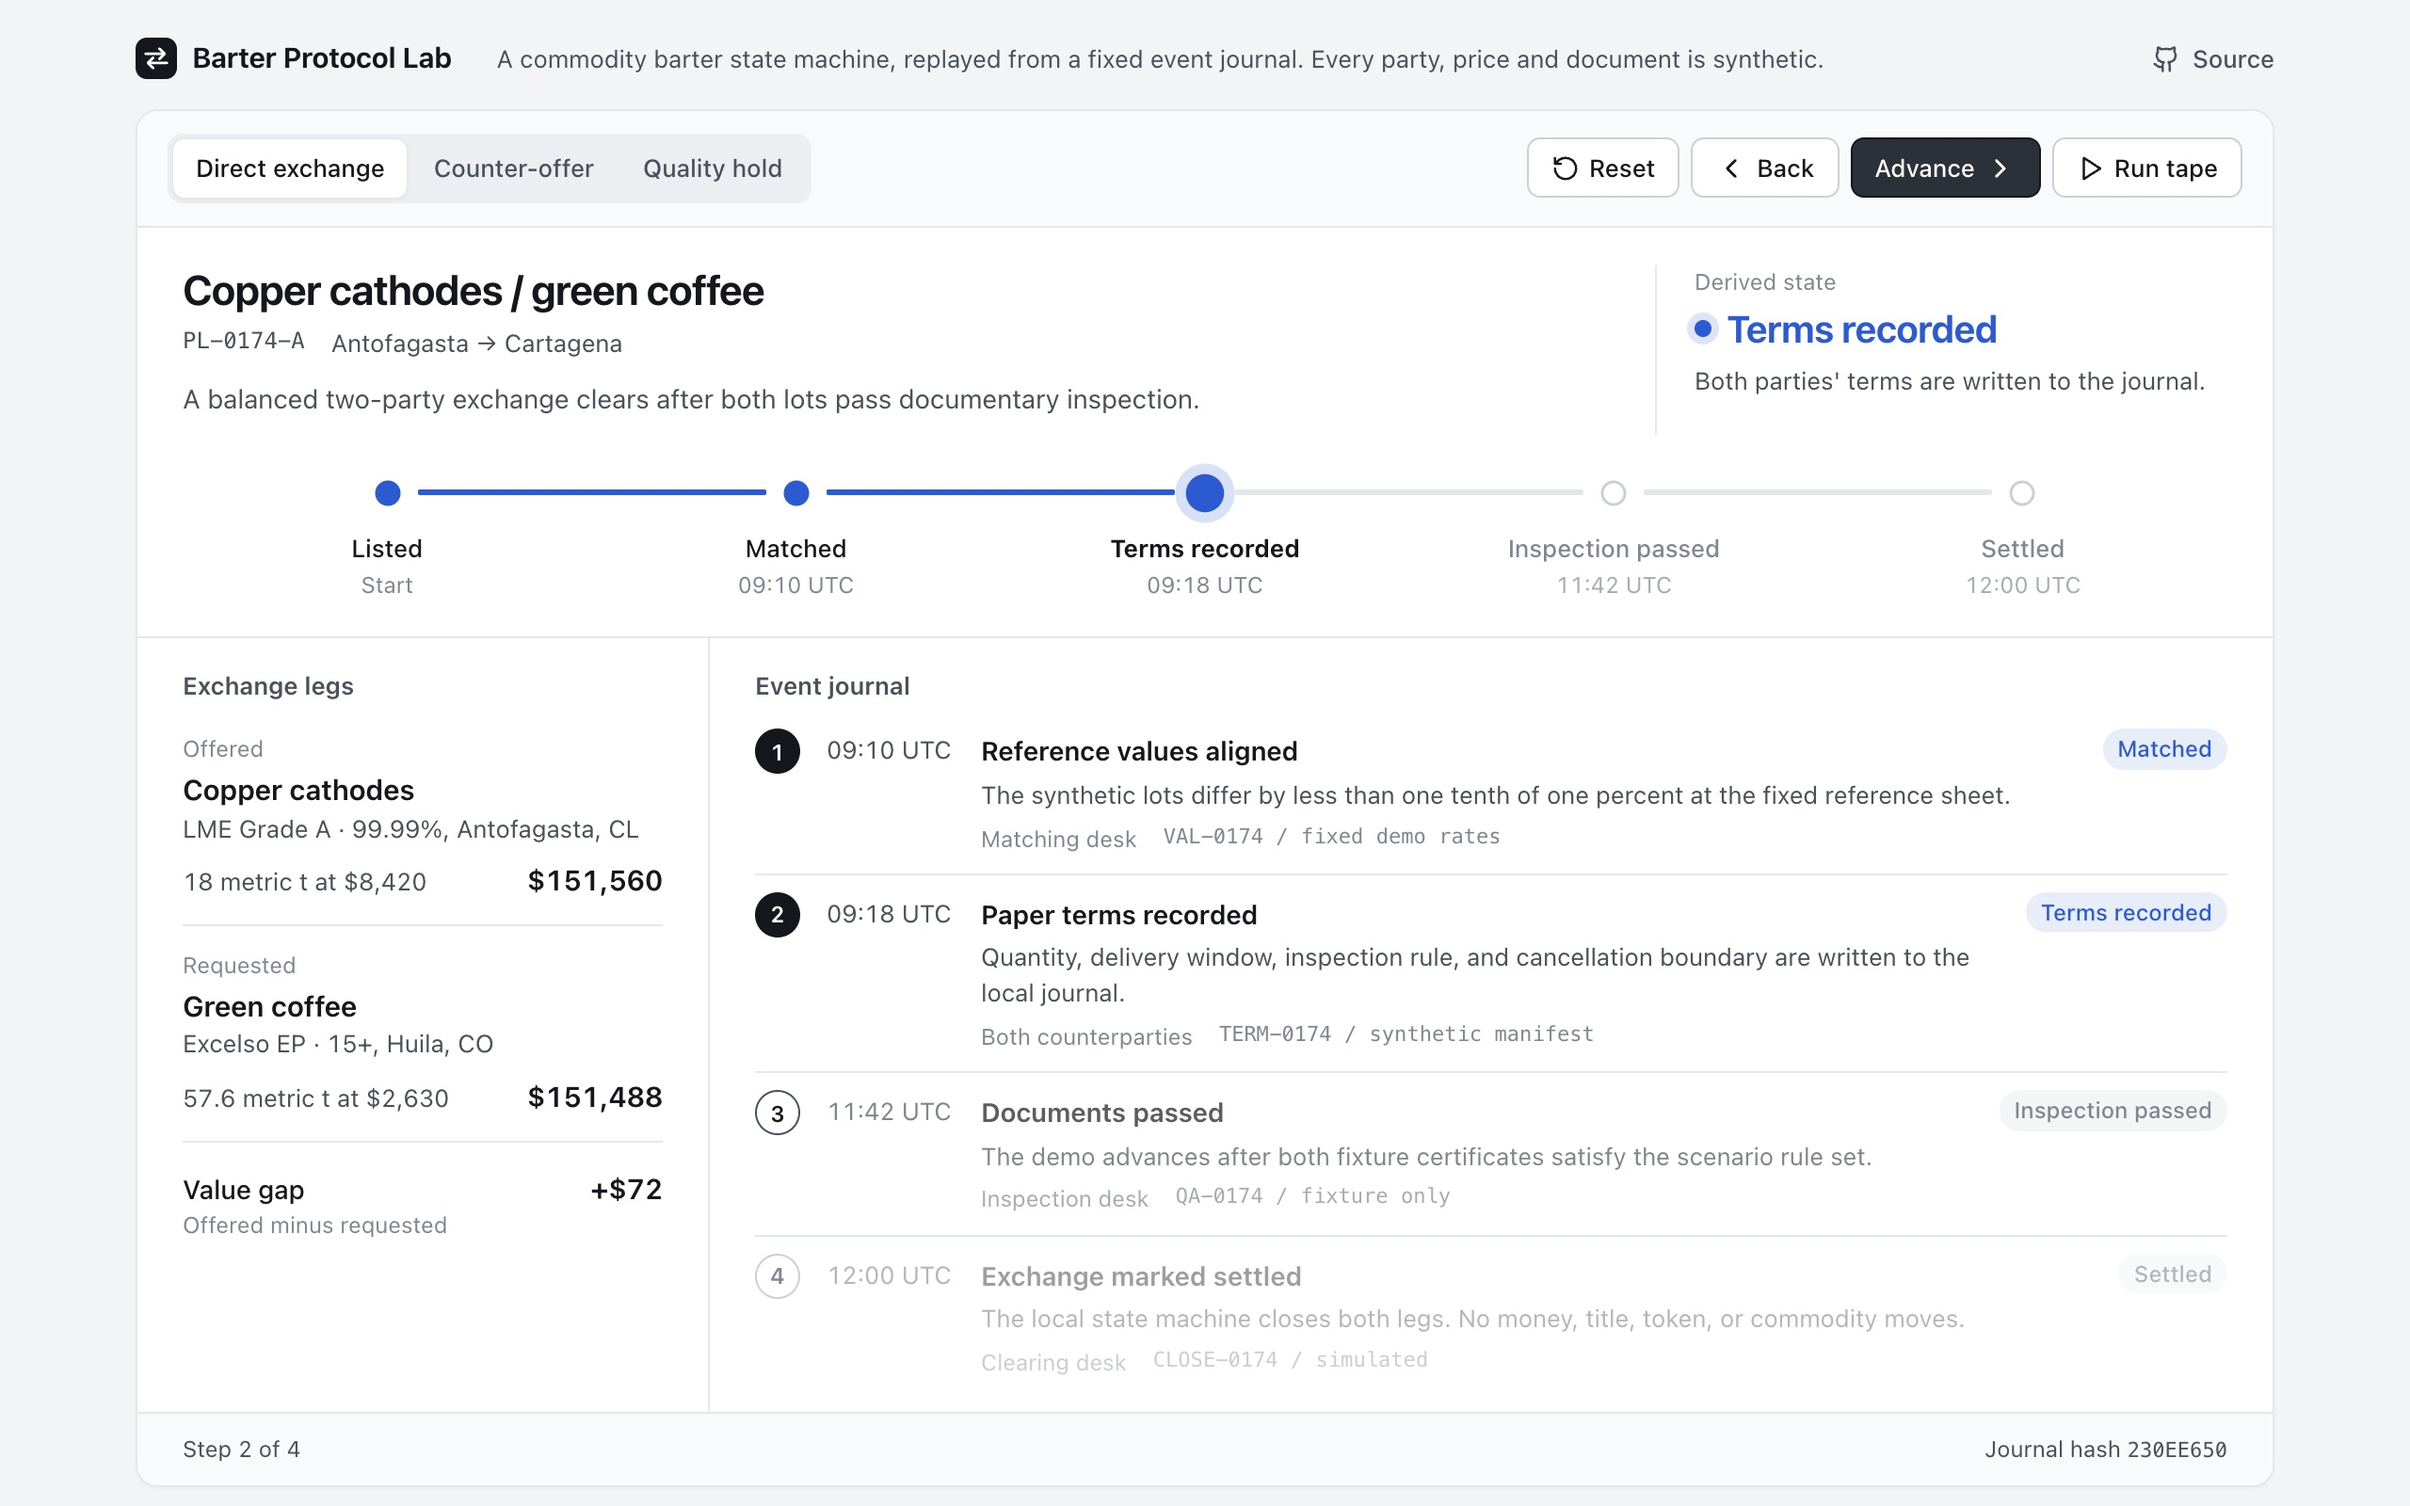
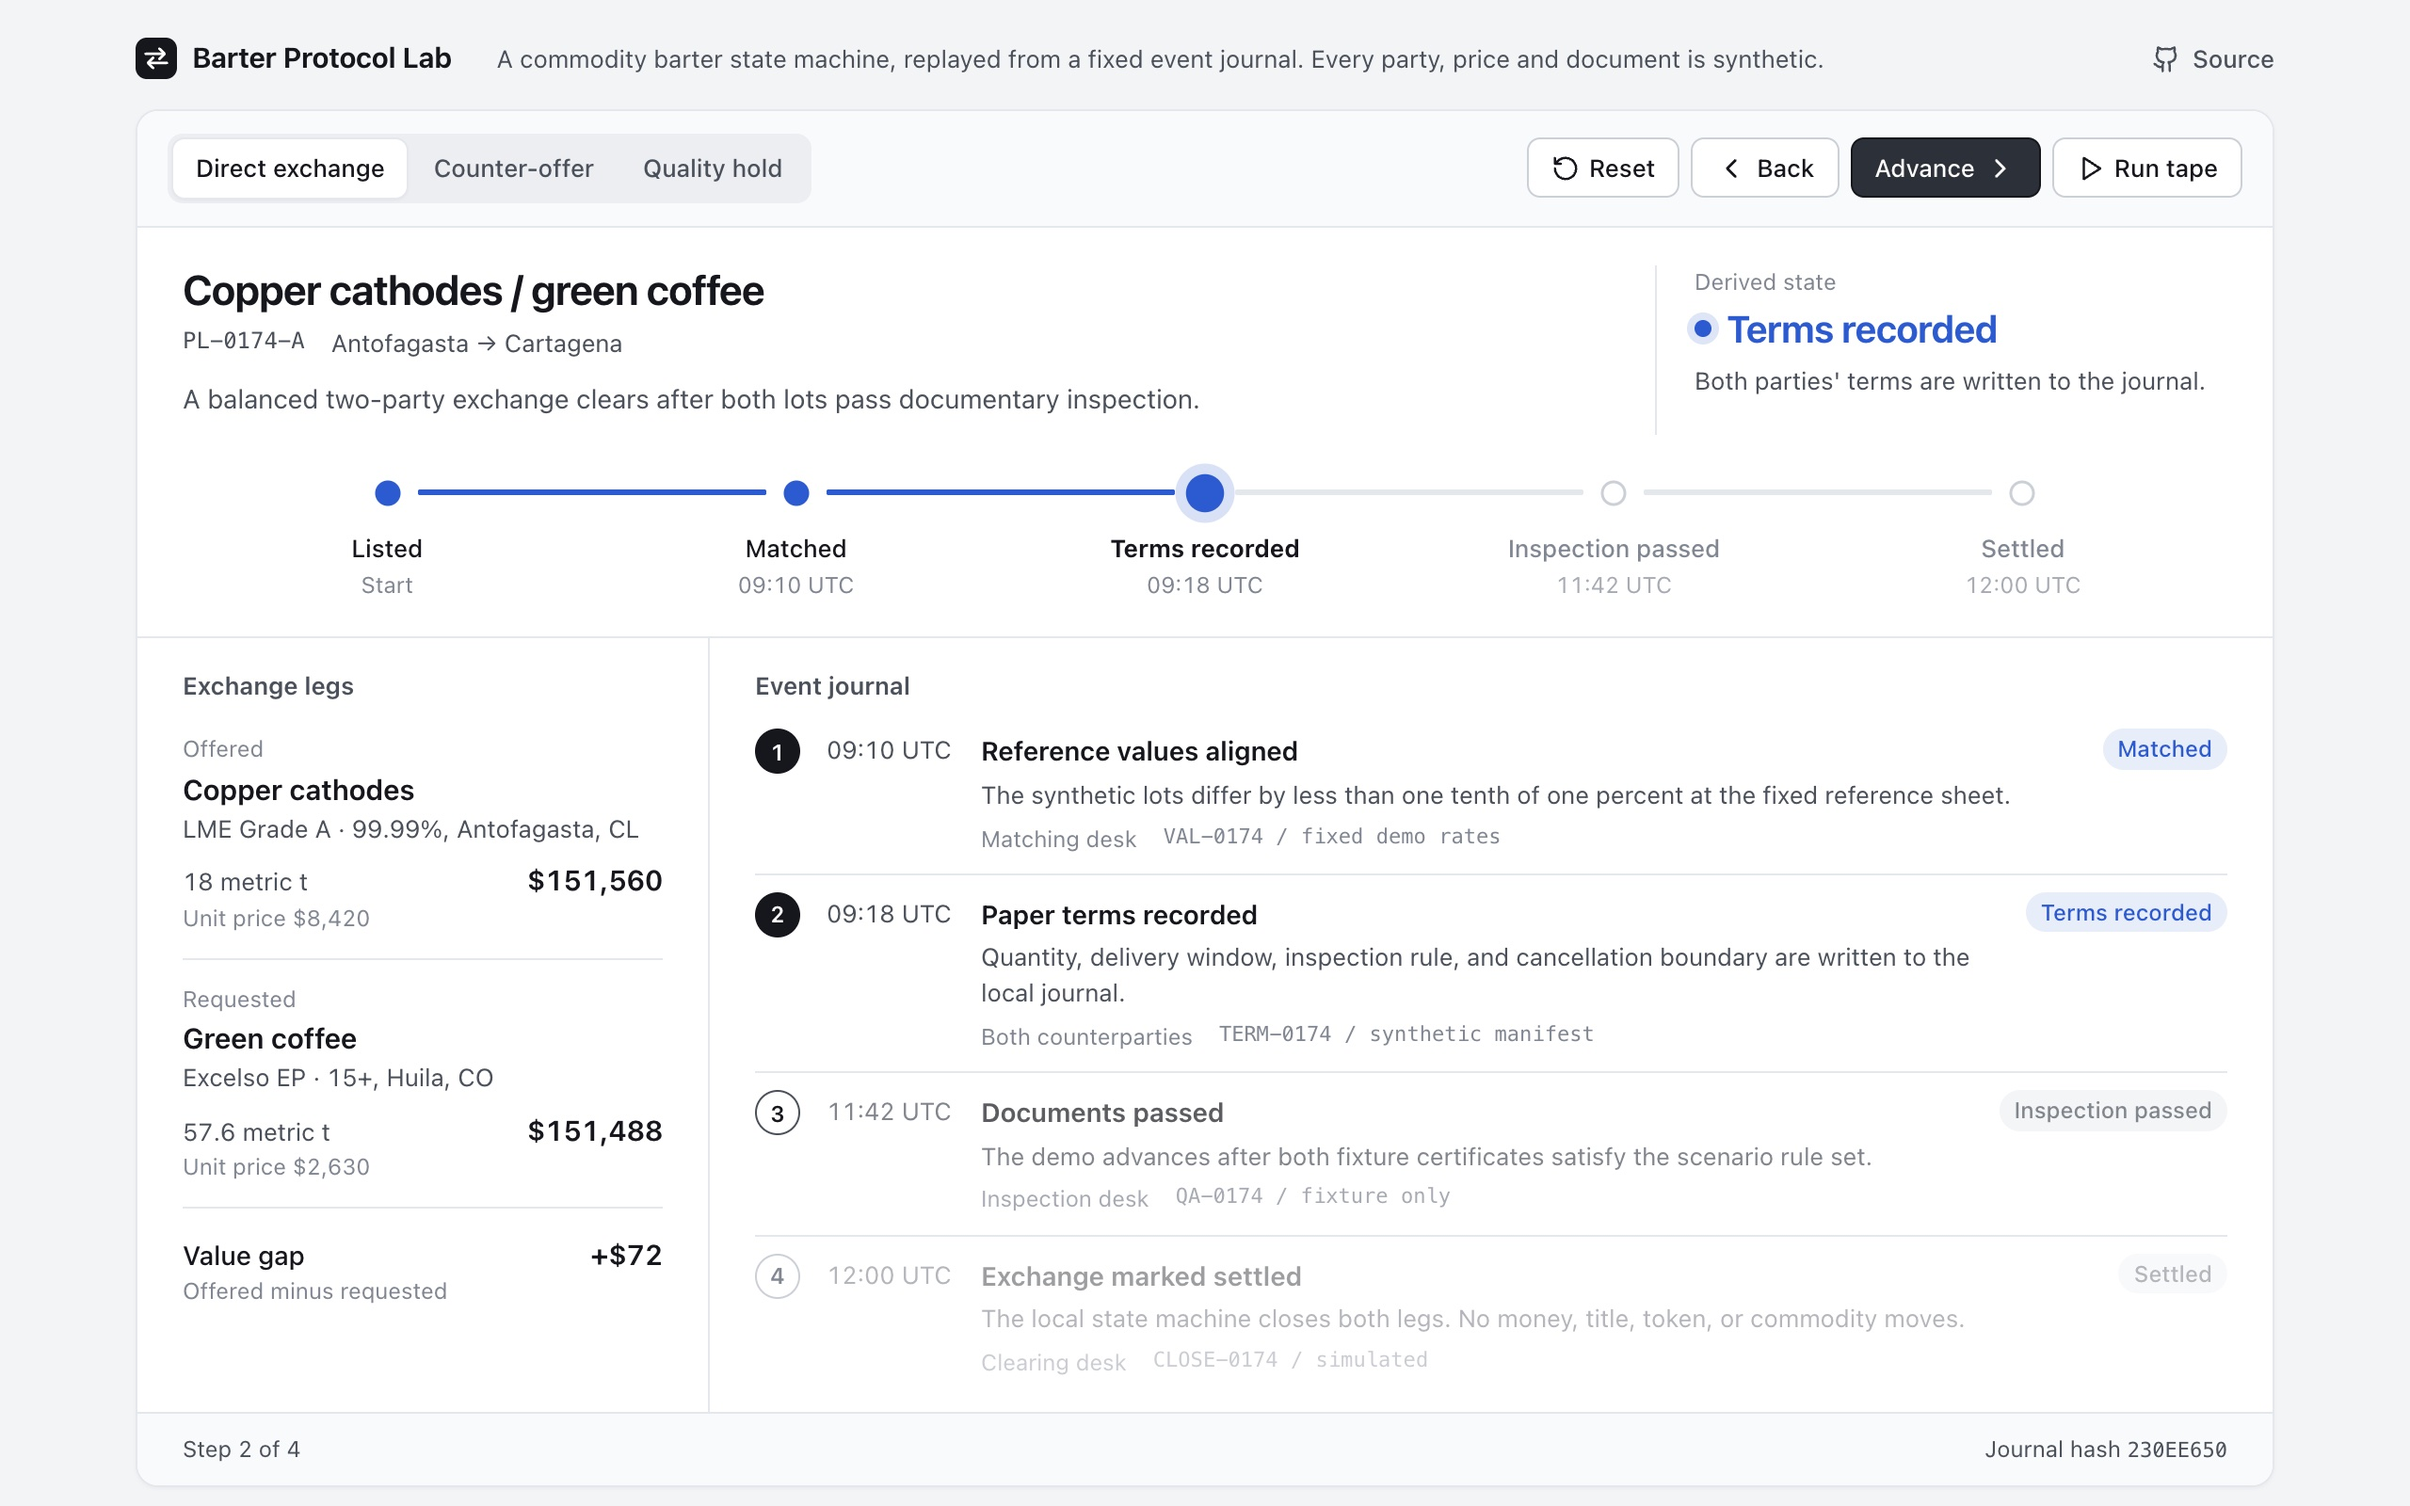
Derive leg quantities from the journal
Journal events can now carry a leg amendment. The replay applies amendments in order and returns the derived offered and requested legs, and the value gap is computed from them. The wheat counter-offer event amends the offered leg to 387.4 t, so from step 2 the lab shows 387.4 t, $147,987 and a gap of -$13 instead of 420 t and +$12,440. Stepping back restores the listed quantity.

Amendments are part of the journal hash only when present, so the copper and cocoa marks are unchanged and pinned by a test. The wheat marks change from step 2 on. The unit price moves to its own line so the amended quantity never wraps.

Changed region(s): [[0.0625, 0.5625, 0.2188, 0.875], [0.2188, 0.7188, 0.2812, 0.8438]]

diff --git a/client/src/features/protocol-lab/demo-engine.ts b/client/src/features/protocol-lab/demo-engine.ts
@@ -29,6 +29,15 @@ export interface ProtocolEvent {
   from: ProtocolState;
   to: ProtocolState;
   evidence: string;
+  amend?: LegAmendment;
+}
+
+export type LegSide = "offered" | "requested";
+
+/** A journal entry that changes the quantity of one leg from that step onward. */
+export interface LegAmendment {
+  leg: LegSide;
+  quantity: number;
 }
 
 export interface ProtocolScenario {
@@ -54,6 +63,8 @@ export interface ReplaySnapshot {
   nextEvent: ProtocolEvent | null;
   progress: number;
   isComplete: boolean;
+  offered: CommodityLeg;
+  requested: CommodityLeg;
   referenceDeltaUsd: number;
   fingerprint: string;
 }
@@ -181,6 +192,7 @@ const scenarios: readonly ProtocolScenario[] = [
         from: "matched",
         to: "countered",
         evidence: "COUNTER-0288 / deterministic rule",
+        amend: { leg: "offered", quantity: 387.4 },
       },
       {
         id: "wheat-freight-03",
@@ -278,7 +290,7 @@ export function getScenario(scenarioId: string): ProtocolScenario {
   return scenarios.find((scenario) => scenario.id === scenarioId) ?? scenarios[0];
 }
 
-function referenceValue(leg: CommodityLeg): number {
+export function referenceValue(leg: CommodityLeg): number {
   return Math.round(leg.quantity * leg.referenceValueUsd * 100) / 100;
 }
 
@@ -305,6 +317,10 @@ export function replayScenario(
   );
   const journal = scenario.events.slice(0, appliedSteps);
   let state = scenario.initialState;
+  const legs: Record<LegSide, CommodityLeg> = {
+    offered: scenario.offered,
+    requested: scenario.requested,
+  };
 
   for (const event of journal) {
     if (event.from !== state) {
@@ -313,13 +329,28 @@ export function replayScenario(
       );
     }
 
+    if (event.amend) {
+      const { leg, quantity } = event.amend;
+
+      if (!Number.isFinite(quantity) || quantity <= 0) {
+        throw new Error(`Invalid leg amendment in ${event.id}: quantity ${quantity}`);
+      }
+
+      legs[leg] = { ...legs[leg], quantity };
+    }
+
     state = event.to;
   }
 
+  // Amendments join the hash only when present, so journals without them keep their marks.
   const fingerprintSource = [
     scenario.folio,
     state,
-    ...journal.map((event) => `${event.id}:${event.from}>${event.to}`),
+    ...journal.map(
+      (event) =>
+        `${event.id}:${event.from}>${event.to}` +
+        (event.amend ? `:${event.amend.leg}=${event.amend.quantity}` : ""),
+    ),
   ].join("|");
 
   return {
@@ -330,9 +361,10 @@ export function replayScenario(
     nextEvent: scenario.events[appliedSteps] ?? null,
     progress: Math.round((appliedSteps / scenario.events.length) * 100),
     isComplete: appliedSteps === scenario.events.length,
+    offered: legs.offered,
+    requested: legs.requested,
     referenceDeltaUsd:
-      Math.round((referenceValue(scenario.offered) - referenceValue(scenario.requested)) * 100) /
-      100,
+      Math.round((referenceValue(legs.offered) - referenceValue(legs.requested)) * 100) / 100,
     fingerprint: fingerprint(fingerprintSource),
   };
 }

diff --git a/client/src/features/protocol-lab/demo-engine.test.ts b/client/src/features/protocol-lab/demo-engine.test.ts
@@ -1,6 +1,7 @@
 import assert from "node:assert/strict";
 import test from "node:test";
 import {
+  getScenario,
   protocolScenarios,
   replayScenario,
   type ProtocolScenario,
@@ -34,6 +35,64 @@ test("replay clamps out-of-range steps without mutating fixtures", () => {
   assert.equal(replayScenario(scenario, -9).appliedSteps, 0);
   assert.equal(replayScenario(scenario, 999).appliedSteps, originalEventCount);
   assert.equal(scenario.events.length, originalEventCount);
+});
+
+test("the counter-offer amends the wheat leg from step 2 onward", () => {
+  const expected = [
+    { step: 0, quantity: 420, deltaUsd: 12_440 },
+    { step: 1, quantity: 420, deltaUsd: 12_440 },
+    { step: 2, quantity: 387.4, deltaUsd: -13.2 },
+    { step: 3, quantity: 387.4, deltaUsd: -13.2 },
+    { step: 4, quantity: 387.4, deltaUsd: -13.2 },
+  ];
+
+  for (const { step, quantity, deltaUsd } of expected) {
+    const snapshot = replayScenario("wheat-freight", step);
+
+    assert.equal(snapshot.offered.quantity, quantity, `offered quantity at step ${step}`);
+    assert.equal(snapshot.requested.quantity, 1, `requested quantity at step ${step}`);
+    assert.equal(snapshot.referenceDeltaUsd, deltaUsd, `value gap at step ${step}`);
+  }
+});
+
+test("stepping back past an amendment restores the listed quantity", () => {
+  const scenario = getScenario("wheat-freight");
+
+  assert.equal(replayScenario(scenario, 4).offered.quantity, 387.4);
+  assert.equal(replayScenario(scenario, 1).offered.quantity, 420);
+  assert.deepEqual(replayScenario(scenario, 1).offered, scenario.offered);
+  assert.equal(scenario.offered.quantity, 420);
+});
+
+test("scenarios without amendments keep their legs and journal marks", () => {
+  const marks = {
+    "copper-coffee": ["24F00D13", "4906663F", "230EE650", "DEE73956", "8BBBFFF1"],
+    "cocoa-hold": ["E53AD9F7", "B279AB94", "50998C24", "8F70C9A5"],
+  };
+
+  for (const [scenarioId, expectedMarks] of Object.entries(marks)) {
+    const scenario = getScenario(scenarioId);
+
+    expectedMarks.forEach((mark, step) => {
+      const snapshot = replayScenario(scenario, step);
+
+      assert.equal(snapshot.fingerprint, mark, `${scenarioId} mark at step ${step}`);
+      assert.deepEqual(snapshot.offered, scenario.offered);
+      assert.deepEqual(snapshot.requested, scenario.requested);
+    });
+  }
+});
+
+test("invalid leg amendments fail loudly", () => {
+  const scenario = getScenario("wheat-freight");
+  const invalidScenario: ProtocolScenario = {
+    ...scenario,
+    events: scenario.events.map((event) =>
+      event.amend ? { ...event, amend: { ...event.amend, quantity: 0 } } : event,
+    ),
+  };
+
+  assert.throws(() => replayScenario(invalidScenario, 2), /Invalid leg amendment/);
 });
 
 test("invalid state transitions fail loudly", () => {

diff --git a/client/src/pages/protocol-lab-page.tsx b/client/src/pages/protocol-lab-page.tsx
@@ -4,6 +4,7 @@ import {
   getScenario,
   protocolScenarios,
   protocolStateLabel,
+  referenceValue,
   replayScenario,
   type CommodityLeg,
   type ProtocolScenario,
@@ -222,8 +223,8 @@ export default function ProtocolLabPage() {
         <div className="protocol-body">
           <section className="protocol-legs" aria-labelledby="protocol-legs-title">
             <h2 id="protocol-legs-title">Exchange legs</h2>
-            <LegRow label="Offered" leg={scenario.offered} />
-            <LegRow label="Requested" leg={scenario.requested} />
+            <LegRow label="Offered" leg={snapshot.offered} listed={scenario.offered} />
+            <LegRow label="Requested" leg={snapshot.requested} listed={scenario.requested} />
             <div className="protocol-gap">
               <div>
                 <span>Value gap</span>
@@ -323,9 +324,19 @@ function StateTrack({
   );
 }
 
-function LegRow({ label, leg }: { label: string; leg: CommodityLeg }) {
+function LegRow({
+  label,
+  leg,
+  listed,
+}: {
+  label: string;
+  leg: CommodityLeg;
+  listed: CommodityLeg;
+}) {
+  const isAmended = leg.quantity !== listed.quantity;
+
   return (
-    <div className="protocol-leg">
+    <div className="protocol-leg" data-amended={isAmended}>
       <p className="protocol-leg-side">{label}</p>
       <p className="protocol-leg-name">{leg.commodity}</p>
       <p className="protocol-leg-grade">
@@ -333,10 +344,19 @@ function LegRow({ label, leg }: { label: string; leg: CommodityLeg }) {
       </p>
       <p className="protocol-leg-figures">
         <span>
-          {quantity.format(leg.quantity)} {leg.unit} at {unitPrice(leg.referenceValueUsd)}
+          {isAmended && (
+            <>
+              <span className="protocol-sr-only">Amended from </span>
+              <del>{quantity.format(listed.quantity)}</del>
+              <span className="protocol-sr-only"> to</span>{" "}
+            </>
+          )}
+          <span className="protocol-leg-quantity">{quantity.format(leg.quantity)}</span>{" "}
+          {leg.unit}
         </span>
-        <strong>{money.format(leg.quantity * leg.referenceValueUsd)}</strong>
+        <strong>{money.format(referenceValue(leg))}</strong>
       </p>
+      <p className="protocol-leg-price">Unit price {unitPrice(leg.referenceValueUsd)}</p>
     </div>
   );
 }

diff --git a/client/src/index.css b/client/src/index.css
@@ -551,6 +551,30 @@ body:has(.protocol-lab) {
   font-weight: 600;
 }
 
+.protocol-leg-price {
+  color: var(--lab-ink-3);
+  font-size: 0.75rem;
+}
+
+.protocol-leg-figures del {
+  color: var(--lab-ink-3);
+}
+
+.protocol-leg[data-amended="true"] .protocol-leg-quantity {
+  color: var(--lab-ink);
+  font-weight: 600;
+}
+
+.protocol-leg[data-amended="true"] .protocol-leg-figures {
+  animation: protocol-amend-in 900ms ease-out;
+}
+
+@keyframes protocol-amend-in {
+  from {
+    background-color: color-mix(in srgb, var(--lab-active) 10%, transparent);
+  }
+}
+
 .protocol-gap {
   display: flex;
   align-items: baseline;

diff --git a/README.md b/README.md
@@ -10,7 +10,7 @@ An interactive commodity-exchange protocol demonstrator: three synthetic trades,
 
 ![Barter Protocol Lab stepping the copper and coffee exchange through its state path and event journal](./assets/barter-protocol-lab.jpg)
 
-The showcase route is **`/lab`**. Pick a scenario, step the journal forward or back, and the derived state, state path and journal hash update from the same replay.
+The showcase route is **`/lab`**. Pick a scenario, step the journal forward or back, and the derived state, leg quantities, value gap and journal hash update from the same replay.
 
 ## What you can replay
 
